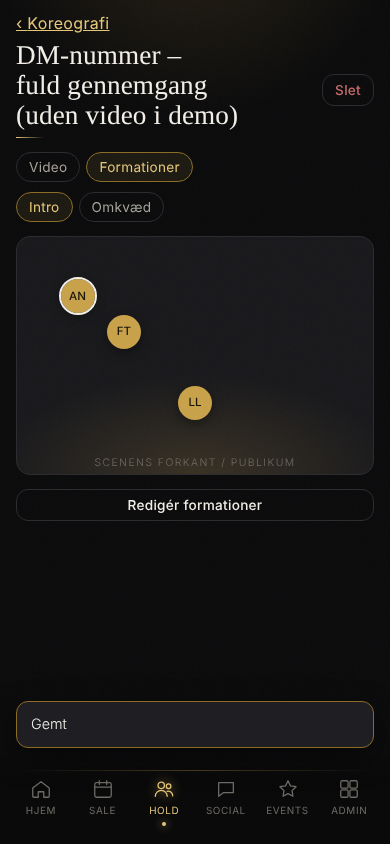
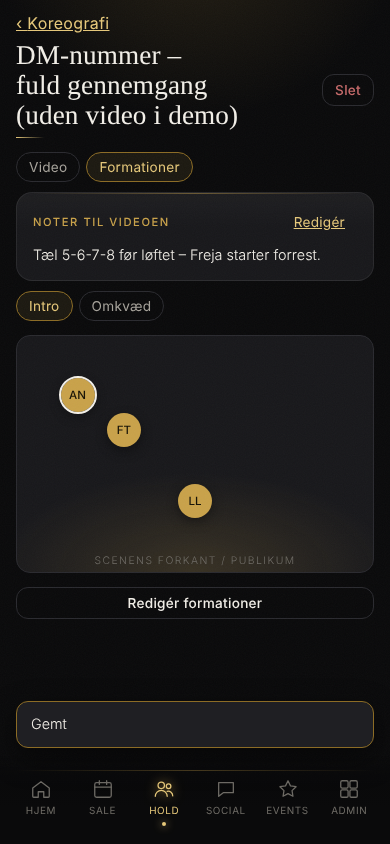
Choreo: notes per video (trainer writes, team reads, 0025); 'Noter' button removed from team page
Claude-Session: https://claude.ai/code/session_01GGpukzb1UrCDBdg1Js3mqC

diff --git a/src/domain/llds/screens/Choreo.tsx b/src/domain/llds/screens/Choreo.tsx
@@ -72,6 +72,7 @@ function VideoView({ video, teamId, staff, onBack, onChanged, toast }: { video: 
           </div><p className="tiny">{t("choreo.loopHint")}</p></div>
         </>
       ) : <p className="muted">{t("choreo.noFile")}</p>)}
+      <VideoNotes video={video} staff={staff} onChanged={onChanged} toast={toast} />
       {tab === "formations" && <Formations video={video} teamId={teamId} staff={staff} onChanged={onChanged} toast={toast} />}
     </section>
   );
@@ -116,6 +117,21 @@ function Formations({ video, teamId, staff, onChanged, toast }: { video: Video; 
           <div className="row"><button className="small" onClick={() => void save()}>{t("common.save")}</button><button className="ghost small" onClick={() => { setFs(video.formations); setEdit(false); }}>{t("common.cancel")}</button></div>
         </div>
       )}
+    </div>
+  );
+}
+
+/** Notes on this video – counts, cues, what to practise. Trainers write; dancers and parents read. */
+function VideoNotes({ video, staff, onChanged, toast }: { video: Video; staff: boolean; onChanged: () => void; toast: (m: string) => void }) {
+  const { t } = useTranslation();
+  const [edit, setEdit] = useState(false); const [text, setText] = useState(video.notes ?? "");
+  useEffect(() => { setText(video.notes ?? ""); }, [video.id, video.notes]);
+  const save = async () => { await api.updateVideo(video.id, { notes: text.trim() || null }); setEdit(false); toast(t("common.saved")); onChanged(); };
+  if (!staff && !video.notes) return null;
+  return (
+    <div className="card" data-testid="video-notes"><div className="row between"><div className="eyebrow">{t("choreo.notes")}</div>{staff && !edit && <button className="linklike small" onClick={() => setEdit(true)}>{video.notes ? t("common.edit") : t("choreo.addNotes")}</button>}</div>
+      {edit ? (<><textarea rows={4} value={text} placeholder={t("choreo.notesPh")} onChange={(e) => setText(e.target.value)} data-testid="video-notes-input" /><div className="row" style={{ gap: 8 }}><button className="cta small" onClick={() => void save()}>{t("common.save")}</button><button className="ghost small" onClick={() => { setEdit(false); setText(video.notes ?? ""); }}>{t("common.cancel")}</button></div></>)
+        : <p className="small" style={{ margin: 0, whiteSpace: "pre-wrap" }}>{video.notes}</p>}
     </div>
   );
 }

diff --git a/src/core/api/types.ts b/src/core/api/types.ts
@@ -211,7 +211,7 @@ export type ThreadMessage = { id: string; thread_id: string; sender_id: string; 
 export type Folder = { id: string; team_id: string; name: string; staff_only: boolean; media_count: number; cover_path: string | null; cover_url?: string | null; created_at: string };
 export type MediaItem = { id: string; folder_id: string; uploader_id: string; uploader_name: string; storage_path: string; kind: "image" | "video"; url: string; created_at: string; sort?: number };
 export type Formation = { label: string; positions: { initials: string; x: number; y: number }[] };
-export type Video = { id: string; team_id: string; uploader_id: string; uploader_name: string; title: string; storage_path: string; url: string; duration_s: number | null; formations: Formation[]; created_at: string };
+export type Video = { id: string; team_id: string; uploader_id: string; uploader_name: string; title: string; storage_path: string; url: string; duration_s: number | null; formations: Formation[]; notes?: string | null; created_at: string };
 export type Note = { id: string; team_id: string; dancer_id: string; dancer_name: string; author_id: string; author_name: string; body: string; created_at: string };
 
 export interface Api {
@@ -251,7 +251,7 @@ export interface Api {
   /* choreography */
   listVideos(teamId: string): Promise<Video[]>;
   uploadVideo(teamId: string, title: string, file: File): Promise<void>;
-  updateVideo(id: string, patch: { title?: string; formations?: Formation[] }): Promise<void>;
+  updateVideo(id: string, patch: { title?: string; formations?: Formation[]; notes?: string | null }): Promise<void>;
   deleteVideo(id: string): Promise<void>;
   /* trainer notes */
   listNotes(teamId: string, dancerId?: string): Promise<Note[]>;

diff --git a/src/domain/llds/screens/Team.tsx b/src/domain/llds/screens/Team.tsx
@@ -121,7 +121,7 @@ export function TeamScreen() {
         <button className={"card tap" + (seesChoreo ? "" : " dim")} disabled={!seesChoreo} onClick={() => setPage("choreo")}><div className="eyebrow">{t("choreo.formations")}</div><div className="big">{t("team.formationsN", { n: stats.formations })}</div></button>
         <button className="card tap" onClick={() => setPage("dancers")} data-testid="go-dancers"><div className="eyebrow">{t("team.dancers")}</div><div className="big">{stats.dancers}{staff ? "" : ""}</div></button>
       </div>
-      {staff && <div className="row" style={{ marginTop: 6 }}><button className="ghost small" onClick={() => setPage("notes")} data-testid="go-notes">{t("notes.title")}</button></div>}
+      
 
       {(team.description || team.price || team.day_time) && (
         <div className="sec"><h2>{t("team.about")}</h2><div className="card" data-testid="team-about">

diff --git a/src/core/api/supabase-social.ts b/src/core/api/supabase-social.ts
@@ -118,7 +118,7 @@ export function supabaseSocial(sb: SupabaseClient, fail: Fail, schoolId: () => P
       await upload(path, file);
       const { error } = await sb.from("video").insert({ team_id: teamId, uploader_id: await myPersonId(), title, storage_path: path }); fail(error);
     },
-    async updateVideo(id: string, patch: { title?: string; formations?: Formation[] }) { const { error } = await sb.from("video").update(patch).eq("id", id); fail(error); },
+    async updateVideo(id: string, patch: { title?: string; formations?: Formation[]; notes?: string | null }) { const { error } = await sb.from("video").update(patch).eq("id", id); fail(error); },
     async deleteVideo(id: string) {
       const { data: v } = await sb.from("video").select("storage_path").eq("id", id).single();
       const { error } = await sb.from("video").delete().eq("id", id); fail(error);
